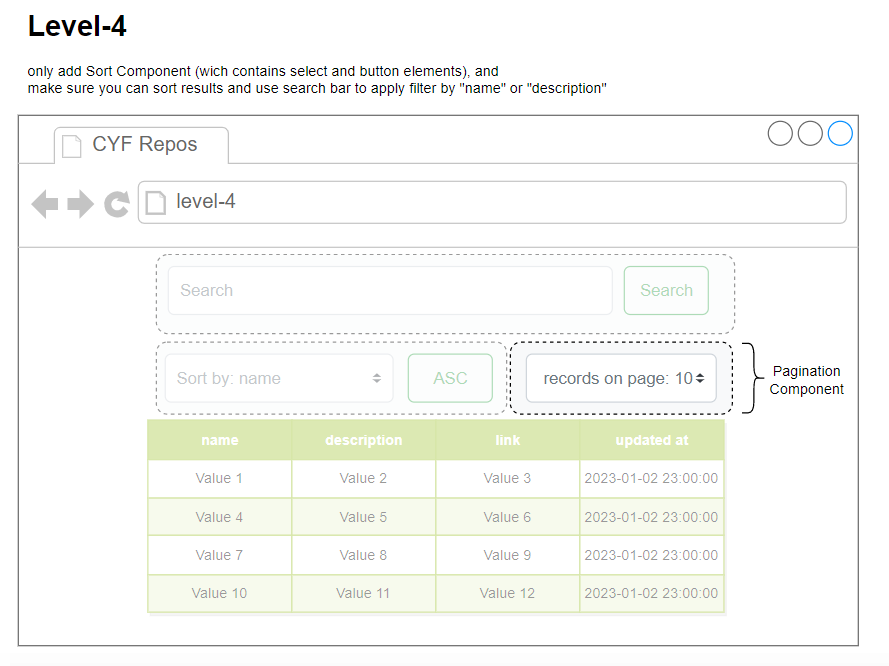
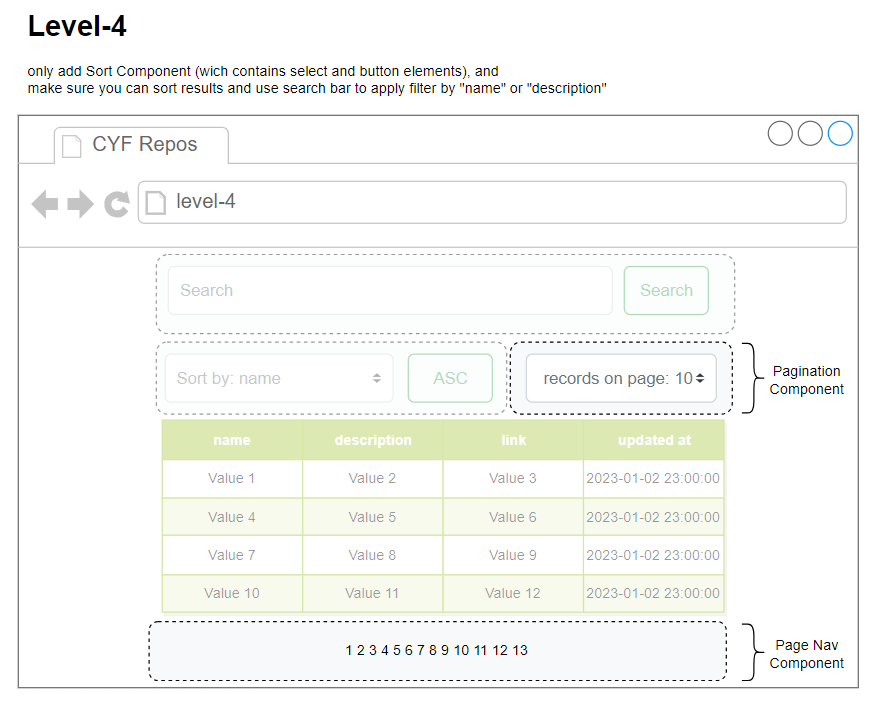
update readme

Changed region(s): [[0.0308, 0.0901, 0.9841, 0.991], [0.0308, 0.03, 0.1538, 0.0601], [0.3998, 0.5105, 0.4305, 0.5405]]

diff --git a/README.md b/README.md
@@ -64,16 +64,31 @@ We can decompose the implementation in 4 stages as below:
             <br />
             <img src="./Level-3-view.png" />
         </p>
+        <p>
+            Your applicatin at this point shold have this structure:
+            <br/>
+            <img src="./Level-3-structure.png" />
+            <br/>
+            <i>This is an example for guidance only. You might come up with a better idea, though ;)</i>
+        </p>
     </li> 
     <li>
         <b>Level 4</b>
         <p>
             Implement pagination functionality. There should be a drop down select element with a multiple available options for the number of table rows on the page: `10`, `20`, `50`, `100`. If you implement pagination, please add also page control element at the bottom of the page with links `next`, `previous`, `1`, `2`, `3`, etc...
+            <br/>
         </p>
         <p>
             Here is the mock:
             <br />
             <img src="./Level-4-view.png"/>
+        </p>
+        <p>
+            Your applicatin at this point shold have this structure:
+            <br/>
+            <img src="./Level-4-structure.png" />
+            <br/>
+            <i>This is an example for guidance only. You might come up with a better idea, though ;)</i>
         </p>
     </li>
 </ul>
